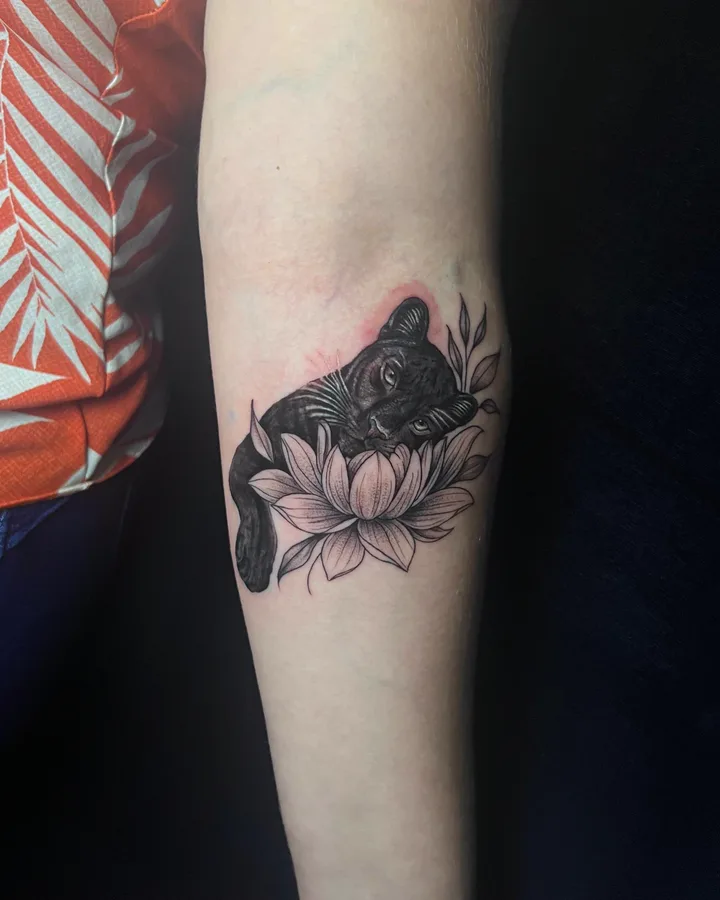
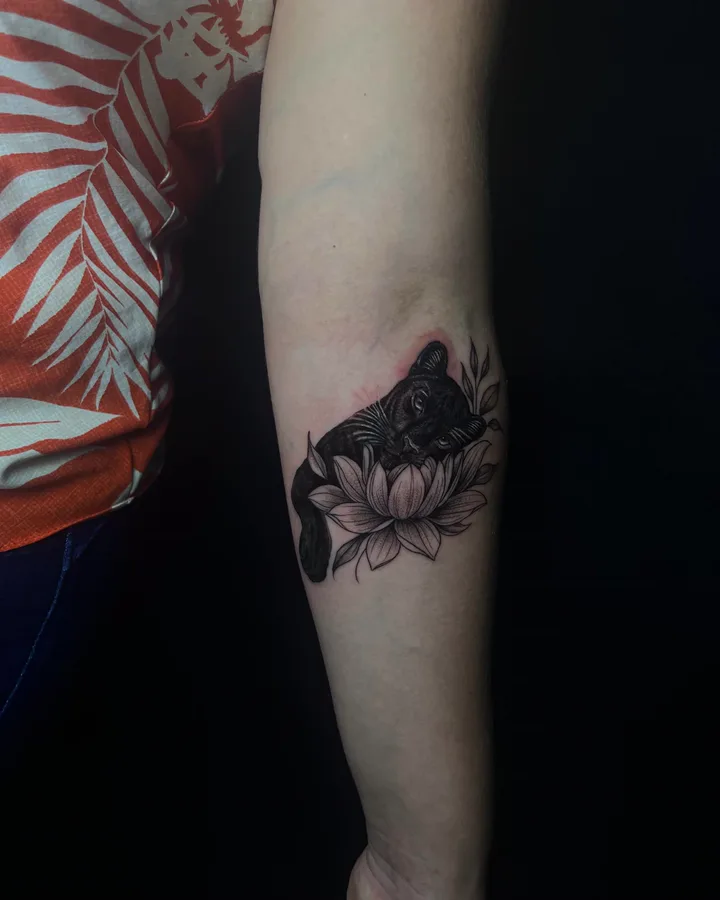
Cobertura: sai o tigre da cicatriz e pantera com foto mais nitida
- Remove o par Cicatriz -> tigre (e o filtro Cicatriz, que ficou vazio)
- Pantera: resultado trocado pela foto mais nitida e de fundo mais escuro
- Textos da pagina e card da home sem citar o tigre

diff --git a/cobertura.html b/cobertura.html
@@ -4,7 +4,7 @@
 <meta charset="UTF-8" />
 <meta name="viewport" content="width=device-width, initial-scale=1.0" />
 <title>Cobertura de Tatuagem em Recife | Moacir Almeida Tattoo — Antes e Depois</title>
-<meta name="description" content="Cobertura de tatuagem e de cicatriz em Casa Amarela, Recife. Veja antes e depois reais: nome coberto, tatuagem antiga e cicatriz. Avaliação gratuita pela foto no WhatsApp." />
+<meta name="description" content="Cobertura de tatuagem e de cicatriz em Casa Amarela, Recife. Veja antes e depois reais de nome e tatuagem antiga coberta. Avaliação gratuita pela foto no WhatsApp." />
 <link rel="canonical" href="https://agendatatt.github.io/moatattoo/cobertura.html" />
 <meta name="theme-color" content="#070707" />
 <link rel="icon" href="favicon.svg" type="image/svg+xml" />
@@ -15,7 +15,7 @@
 <meta property="og:locale" content="pt_BR" />
 <meta property="og:url" content="https://agendatatt.github.io/moatattoo/cobertura.html" />
 <meta property="og:title" content="Cobertura de Tatuagem em Recife — Antes e Depois" />
-<meta property="og:description" content="Nome, tatuagem antiga ou cicatriz virando peça nova. Antes e depois reais. Avaliação gratuita pela foto." />
+<meta property="og:description" content="Nome ou tatuagem antiga virando peça nova. Antes e depois reais. Cicatriz também. Avaliação gratuita pela foto." />
 <meta property="og:image" content="https://agendatatt.github.io/moatattoo/og/cobertura-pantera-depois.jpg" />
 <meta property="og:image:type" content="image/jpeg" />
 <meta property="og:image:width" content="960" />
@@ -23,7 +23,7 @@
 <meta property="og:image:alt" content="Cobertura de tatuagem: tatuagem antiga no antebraço virou uma pantera negra" />
 <meta name="twitter:card" content="summary_large_image" />
 <meta name="twitter:title" content="Cobertura de Tatuagem em Recife — Antes e Depois" />
-<meta name="twitter:description" content="Nome, tatuagem antiga ou cicatriz virando peça nova. Avaliação gratuita pela foto." />
+<meta name="twitter:description" content="Nome ou tatuagem antiga virando peça nova. Cicatriz também. Avaliação gratuita pela foto." />
 <meta name="twitter:image" content="https://agendatatt.github.io/moatattoo/og/cobertura-pantera-depois.jpg" />
 
 <link rel="preconnect" href="https://fonts.googleapis.com">
@@ -346,7 +346,7 @@ footer a:hover{color:var(--cream);}
           <li>Avaliação <b>gratuita</b> pela foto</li>
           <li><b>5,0</b> no Google</li>
           <li><b>1</b> cliente por dia</li>
-          <li><b id="nCasos">6</b> coberturas reais</li>
+          <li><b id="nCasos">5</b> coberturas reais</li>
         </ul>
       </div>
 
@@ -382,7 +382,6 @@ footer a:hover{color:var(--cream);}
           <button type="button" data-f="all" aria-pressed="true">Todas</button>
           <button type="button" data-f="nome" aria-pressed="false">Nome</button>
           <button type="button" data-f="antiga" aria-pressed="false">Tatuagem antiga</button>
-          <button type="button" data-f="cicatriz" aria-pressed="false">Cicatriz</button>
         </div>
       </div>
       <p class="reveal" style="color:var(--muted); margin:-30px 0 34px;">Toque na foto pra virar e ver como era antes.</p>
@@ -400,7 +399,7 @@ footer a:hover{color:var(--cream);}
         <div class="kind"><span class="n">01</span><h3>Nome ou frase</h3><p>O nome que ficou no passado vira parte de um desenho — como a rosa que escondeu um nome.</p></div>
         <div class="kind"><span class="n">02</span><h3>Tatuagem antiga</h3><p>Traço estourado, desenho apagado ou feito às pressas, que perdeu a forma com o tempo.</p></div>
         <div class="kind"><span class="n">03</span><h3>Desenho que não é mais você</h3><p>Uma estrela colorida que virou sol em blackwork. Um chibi que virou Itachi.</p></div>
-        <div class="kind"><span class="n">04</span><h3>Cicatriz</h3><p>Com a pele já cicatrizada, o desenho é pensado em cima da marca — como o tigre na barriga.</p></div>
+        <div class="kind"><span class="n">04</span><h3>Cicatriz</h3><p>Com a pele já cicatrizada, o desenho é pensado em cima da marca pra aproveitar a textura da pele.</p></div>
       </div>
       <p class="rule reveal"><b>A regra da cobertura:</b> pra esconder de verdade, a tatuagem nova quase sempre precisa ser um pouco maior e ter partes escuras por cima da antiga. Traço fino e claro sobre preto não cobre. Por isso a avaliação vem antes de qualquer desenho.</p>
     </div>
@@ -485,7 +484,6 @@ footer a:hover{color:var(--cream);}
     { tipo:'antiga', nome:'Antiga → pantera negra', sub:'Antebraço · cobertura', a:'cobertura-pantera-antes.webp', d:'cobertura-pantera-depois.webp', altA:'Antes: tatuagem antiga no antebraço', altD:'Depois: pantera negra cobrindo a tatuagem antiga no antebraço' },
     { tipo:'antiga', nome:'Chibi → Itachi', sub:'Antebraço · anime', a:'cobertura-itachi-antes.webp', d:'cobertura-itachi-depois.webp', altA:'Antes: tatuagem pequena de personagem chibi no antebraço', altD:'Depois: Itachi com corvo em realismo cobrindo o chibi' },
     { tipo:'nome', nome:'Nome → rosa', sub:'Clavícula · o nome sumiu', a:'cobertura-rosa-antes.webp', d:'cobertura-rosa-depois.webp', altA:'Antes: rosa com um nome escrito na clavícula (nome borrado na foto)', altD:'Depois: rosa em preto e cinza, sem o nome' },
-    { tipo:'cicatriz', nome:'Cicatriz → tigre', sub:'Barriga · cobertura de cicatriz', a:'cobertura-cicatriz-antes.webp', d:'cobertura-cicatriz-depois.webp', altA:'Antes: cicatriz na barriga', altD:'Depois: tigre com flores cobrindo a cicatriz na barriga' },
     { tipo:'antiga', nome:'Contorno → Charizard', sub:'Antebraço · em cor', a:'cobertura-charizard-antes.webp', d:'cobertura-charizard-depois.webp', altA:'Antes: contorno antigo de Charizard no antebraço', altD:'Depois: tatuagem colorida cobrindo o contorno antigo no antebraço' },
     { tipo:'antiga', nome:'Estrela → sol', sub:'Ombro · blackwork', a:'cobertura-sol-antes.webp', d:'cobertura-sol-depois.webp', altA:'Antes: estrela azul com contorno de sol', altD:'Depois: sol em blackwork cobrindo a estrela' }
   ];

diff --git a/index.html b/index.html
@@ -592,7 +592,7 @@ footer{border-top:1px solid var(--border); padding:60px 0 34px; color:var(--mute
       </div>
       <div class="articles">
         <a class="article reveal" href="quantas-sessoes-tatuagem-grande.html"><span class="cat">Tatuagem grande</span><h3>Quantas sessões leva uma tatuagem grande</h3><p>Fechamento de coxa, braço ou costas nem sempre sai em um dia. O que limita e como funciona o pagamento entre as sessões.</p><span class="go">Ler →</span></a>
-        <a class="article reveal" href="cobertura.html"><span class="cat">Cobertura</span><h3>Cobertura de tatuagem: antes e depois</h3><p>Nome, tatuagem antiga e cicatriz virando peça nova — com os trabalhos reais e como funciona a avaliação.</p><span class="go">Ver →</span></a>
+        <a class="article reveal" href="cobertura.html"><span class="cat">Cobertura</span><h3>Cobertura de tatuagem: antes e depois</h3><p>Nome e tatuagem antiga virando peça nova — com os trabalhos reais e como funciona a avaliação.</p><span class="go">Ver →</span></a>
         <a class="article reveal" href="anime.html"><span class="cat">Galeria</span><h3>Tatuagem de anime em Recife</h3><p>Luffy, Zoro, Gaara, Nezuko, Jin-Woo e mais — preto e cinza, preto com cor ou colorido.</p><span class="go">Ver galeria →</span></a>
         <a class="article reveal" href="cuidados-tatuagem-15-dias.html"><span class="cat">Cuidados</span><h3>Como cuidar da tatuagem nos primeiros 15 dias</h3><p>A cicatrização define a qualidade final. O passo a passo pra não perder nenhum detalhe.</p><span class="go">Ler →</span></a>
         <a class="article reveal" href="quanto-doi-tatuagem.html"><span class="cat">Dor e preparo</span><h3>Quanto dói fazer tatuagem? Ranking por região</h3><p>Quais regiões doem mais, por quê, e como aguentar melhor a sessão.</p><span class="go">Ler →</span></a>
